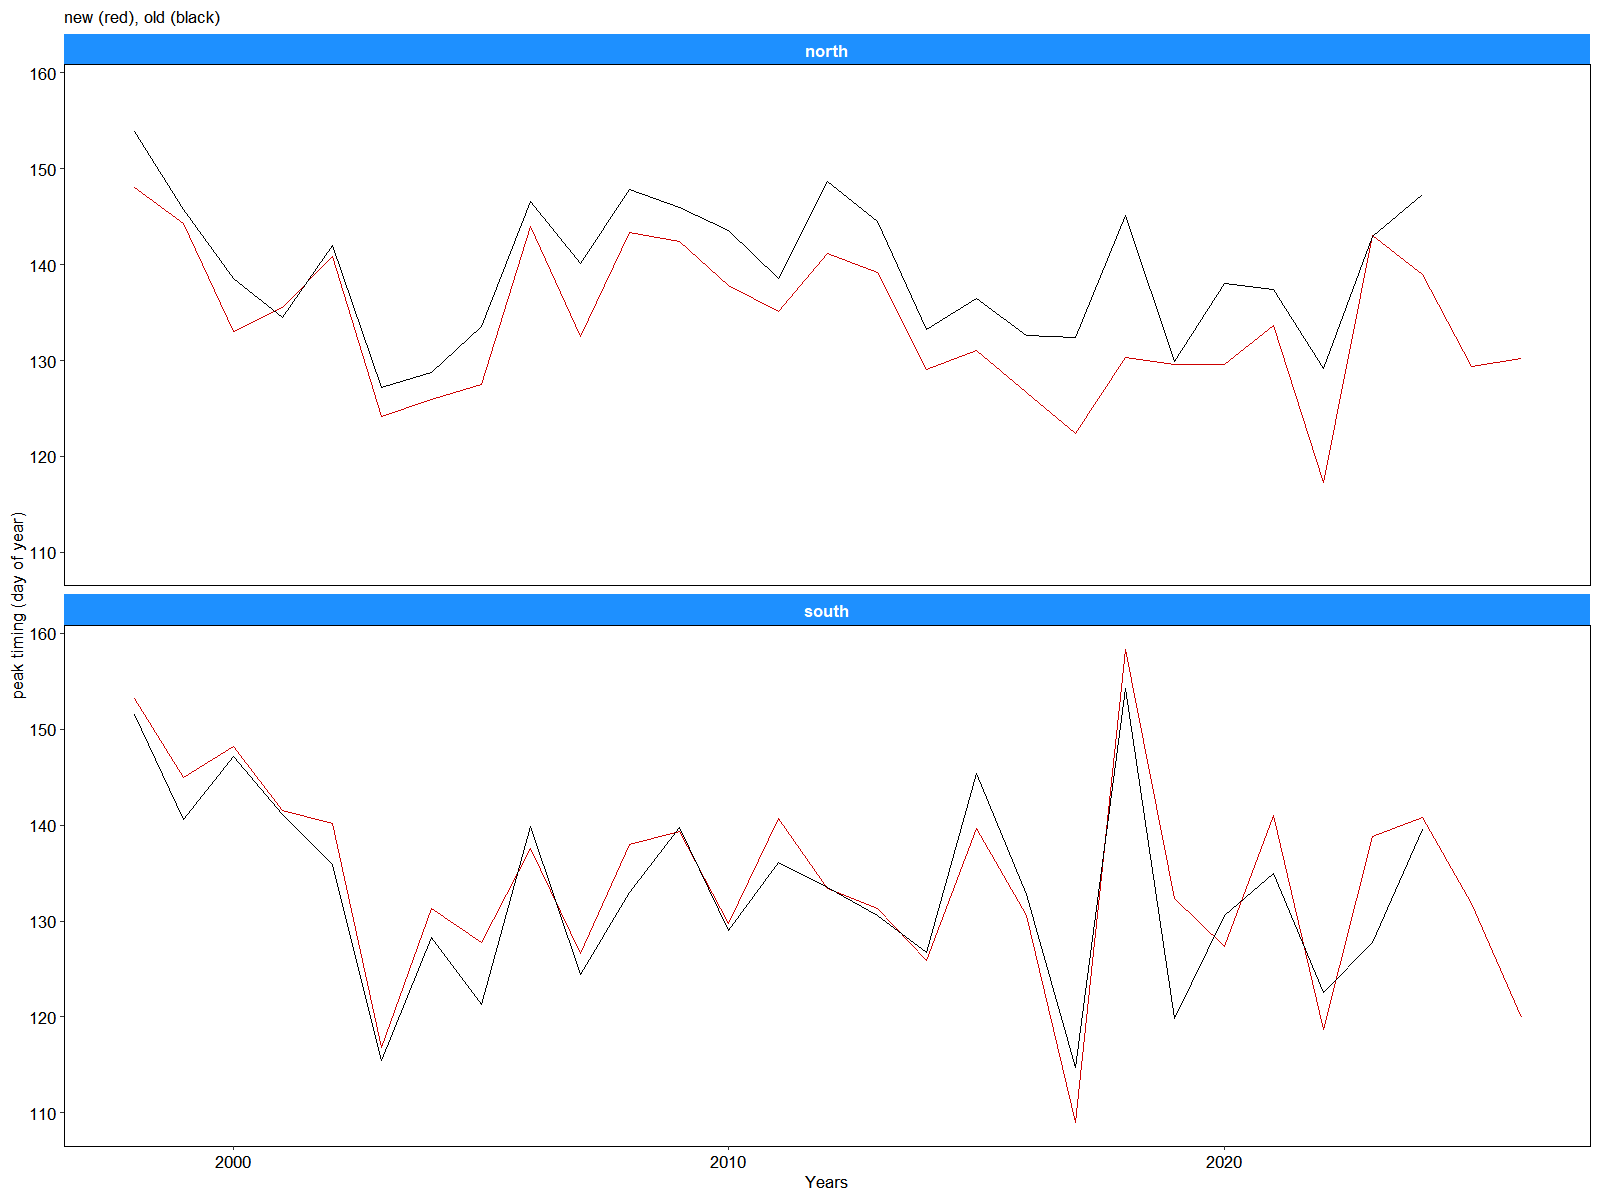
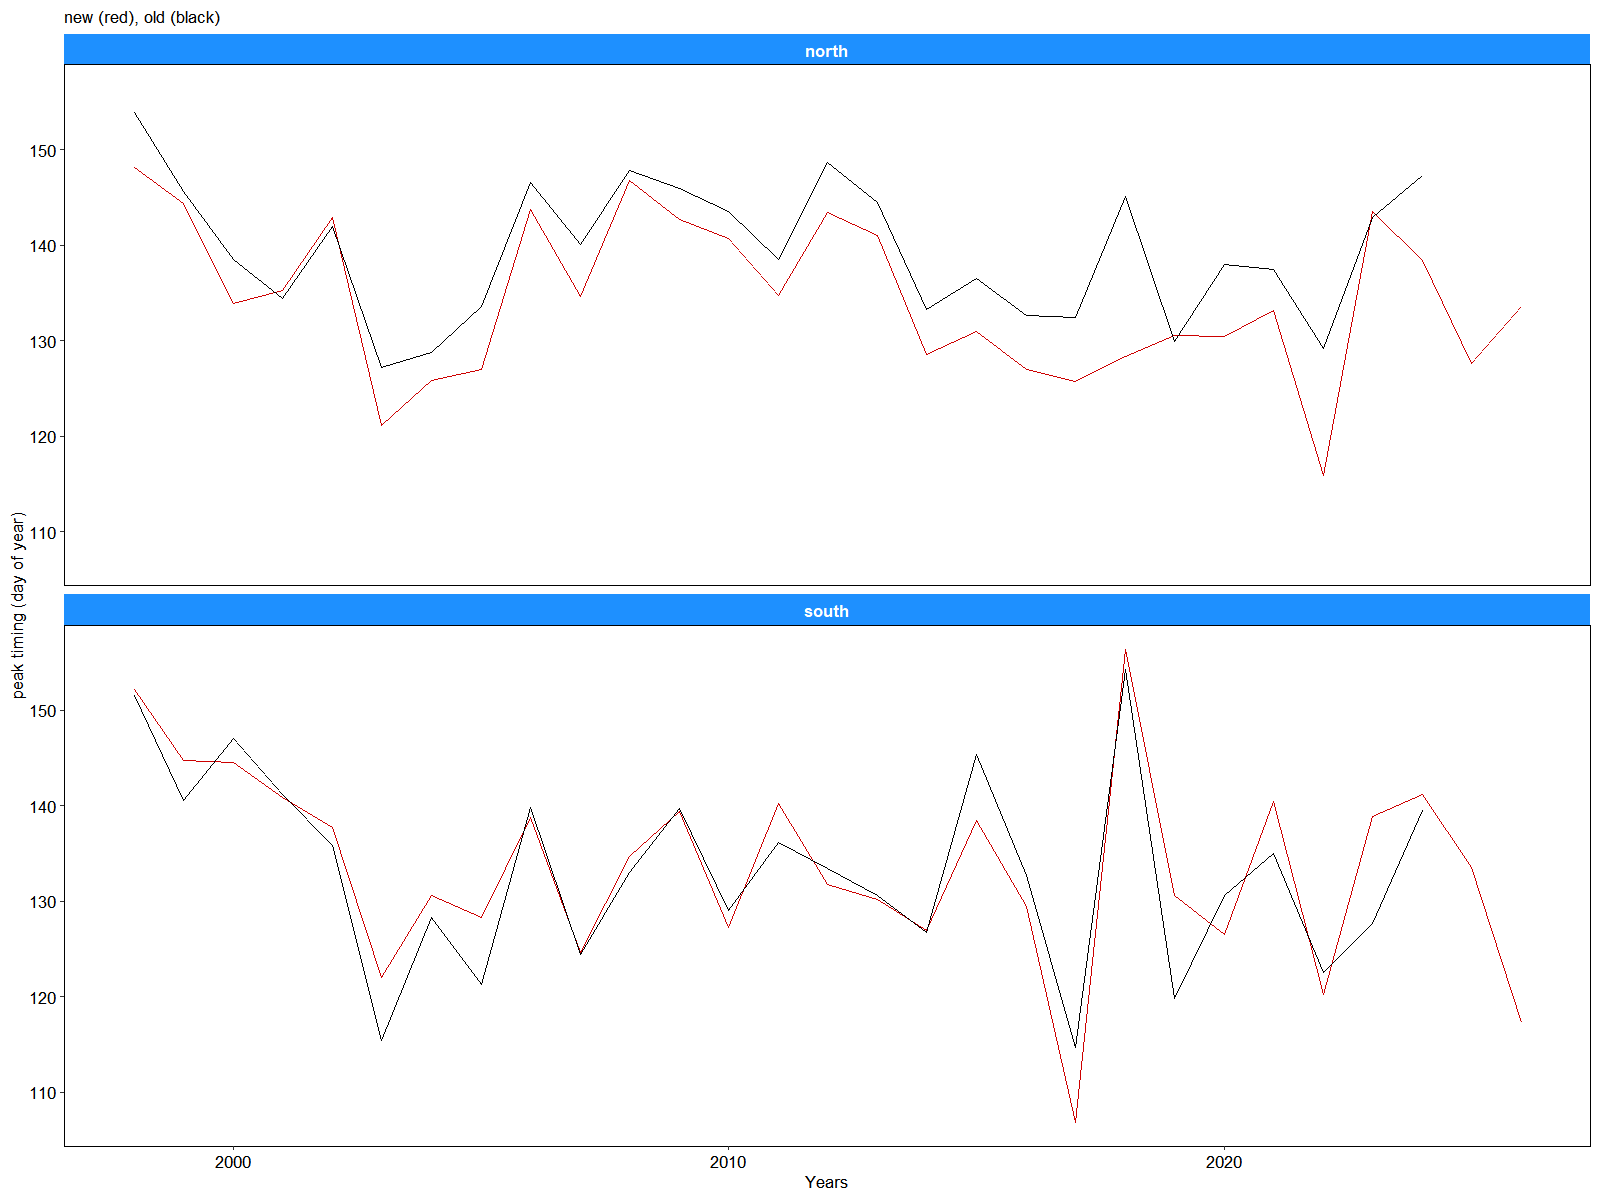
updated bloom type.

diff --git a/Chla/Jens transition notes.md b/Chla/Jens transition notes.md
@@ -2,17 +2,13 @@
 
 \# pull EBS data chl and ice
 
-Chla/ESR/2025/EBS\_data\_pull\_occci\_2025.R
+Chla/ESR/2025/EBS_data_pull_occci_2025.R
 
-
-
-\# save to inter\_jens\_datafiles or just to GitHub
-
-
+\# save to inter_jens_datafiles or just to GitHub
 
 \# Contribution
 
-Chla/ESR/2025/OC\_CCI\_BeringSEA\_ESR\_oct2025.R
+Chla/ESR/2025/OC_CCI_BeringSEA_ESR_oct2025.R
 
 \# line 18-29 super bsierp region
 
@@ -20,15 +16,13 @@ Chla/ESR/2025/OC\_CCI\_BeringSEA\_ESR\_oct2025.R
 
 \# avg by year, super region
 
-\# line 102 repeat dodger blue length(unique(data$year))
+\# line 102 repeat dodger blue length(unique(data\$year))
 
 \# fig 3 not wanted-ignore
 
-
-
 \# fig 4 bloom timing
 
-Run Chla/chla\_bloomTiming\_ice\_retreat\_calculations\_2025\_occci.R
+Run Chla/chla_bloomTiming_ice_retreat_calculations_2025_occci.R
 
 \# log chla for bloom timing
 
@@ -44,15 +38,9 @@ Run Chla/chla\_bloomTiming\_ice\_retreat\_calculations\_2025\_occci.R
 
 \# Brings mooring from multiple sources - Make data frame to avoid vector weirdness
 
-
-
 \# for 2026 get estimate from prawler (day of year)
 
-
-
 \# Talk to Sean Bell for prawler
-
-
 
 \## write up
 
@@ -60,25 +48,19 @@ Run Chla/chla\_bloomTiming\_ice\_retreat\_calculations\_2025\_occci.R
 
 \# change product
 
-
-
 \# reuse map
 
-
-
-Chla/ESP/2025\_indicators/Bloom\_type\_crab\_Ryznar\_occci\_data\_2025.R
+Chla/ESP/2025_indicators/Bloom_type_crab_Ryznar_occci_data_2025.R
 
 \# need lat long of Jens grid - no just need whether North or South.
 
-\# grid cell #s >259 are north
-
-
+\# grid cell #s \>259 are north
 
 Contributed by Jeanette C. Gann
 
 Jens M. Nielsen (UW)
 
-Matt W. Callahan  
+Matt W. Callahan
 
 Lisa Eisner (Delete)
 
@@ -92,11 +74,4 @@ Shaun W. Bell6
 
 Phyllis Stabeno (Leave)
 
-
-
-
-
-jmniel@uw.edu
-
-
-
+[jmniel\@uw.edu](mailto:jmniel@uw.edu){.email}
